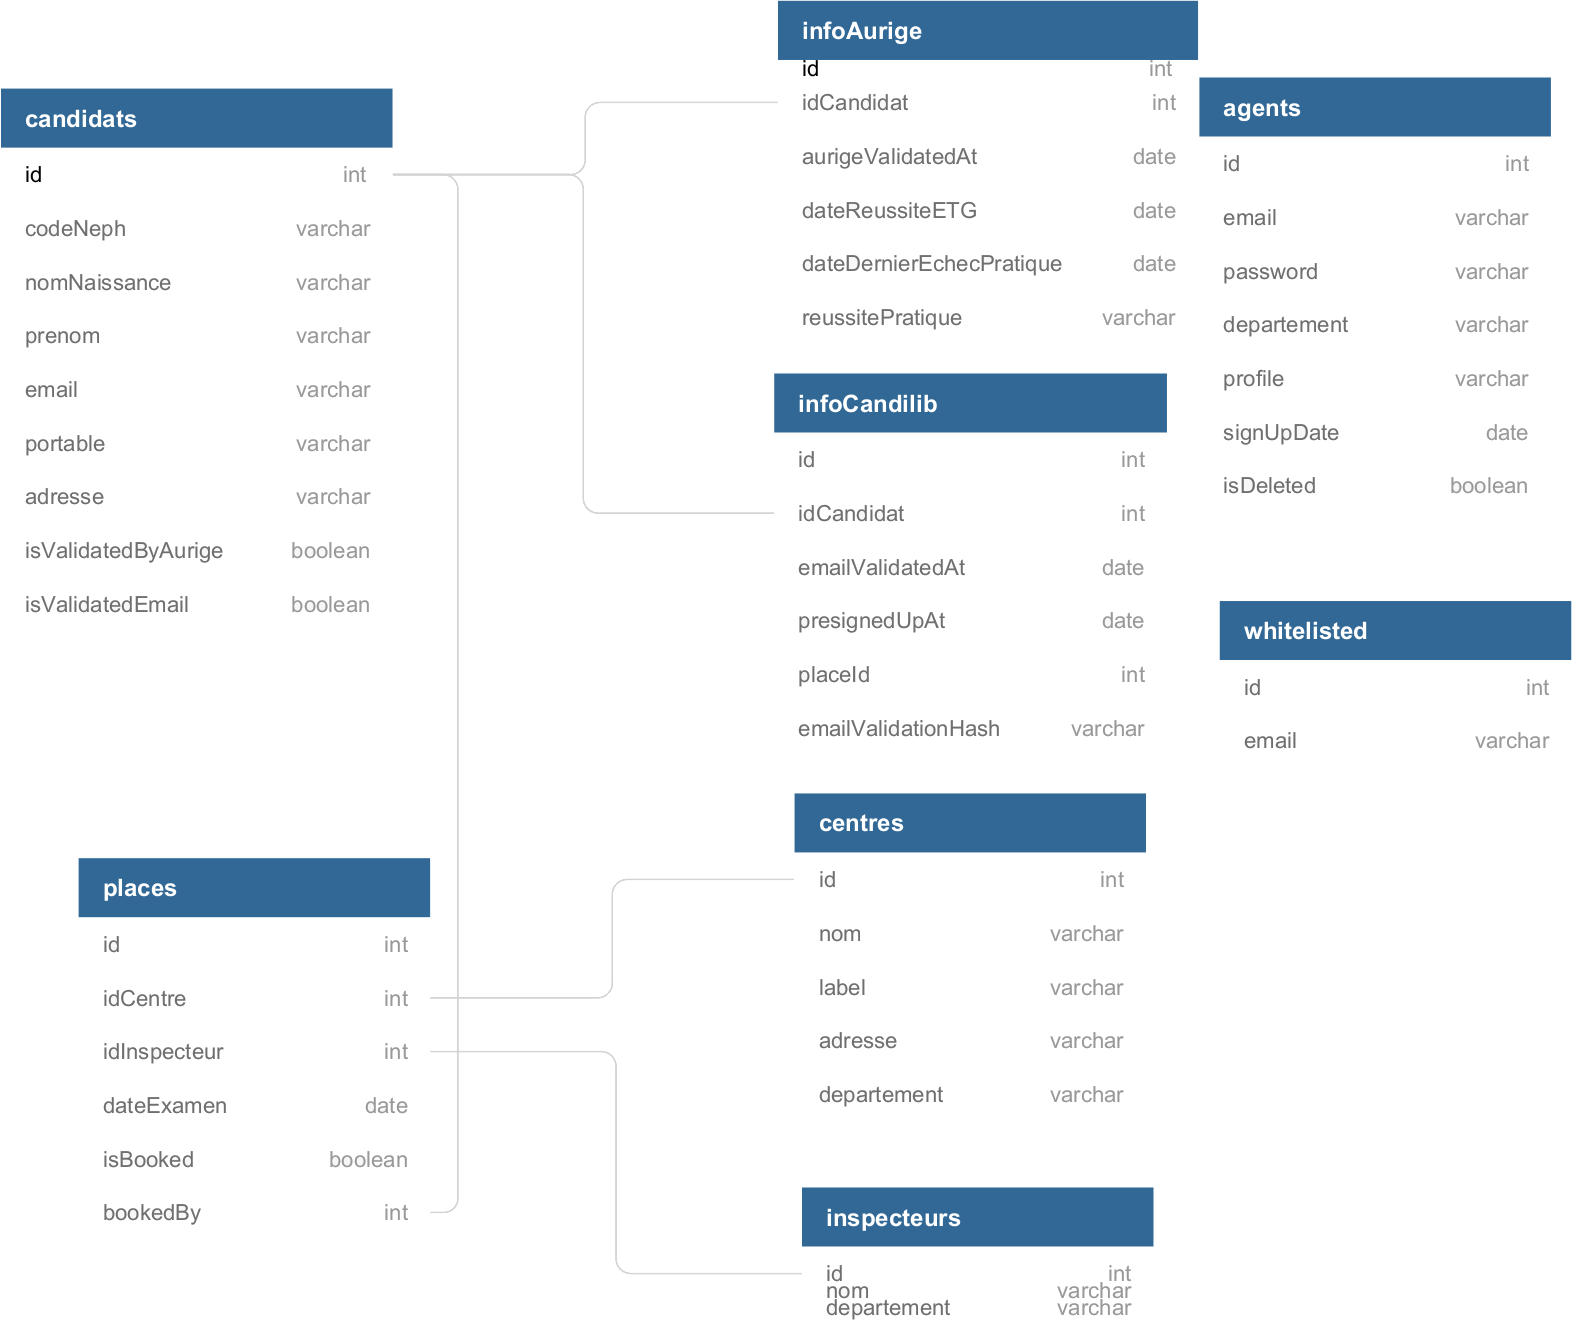
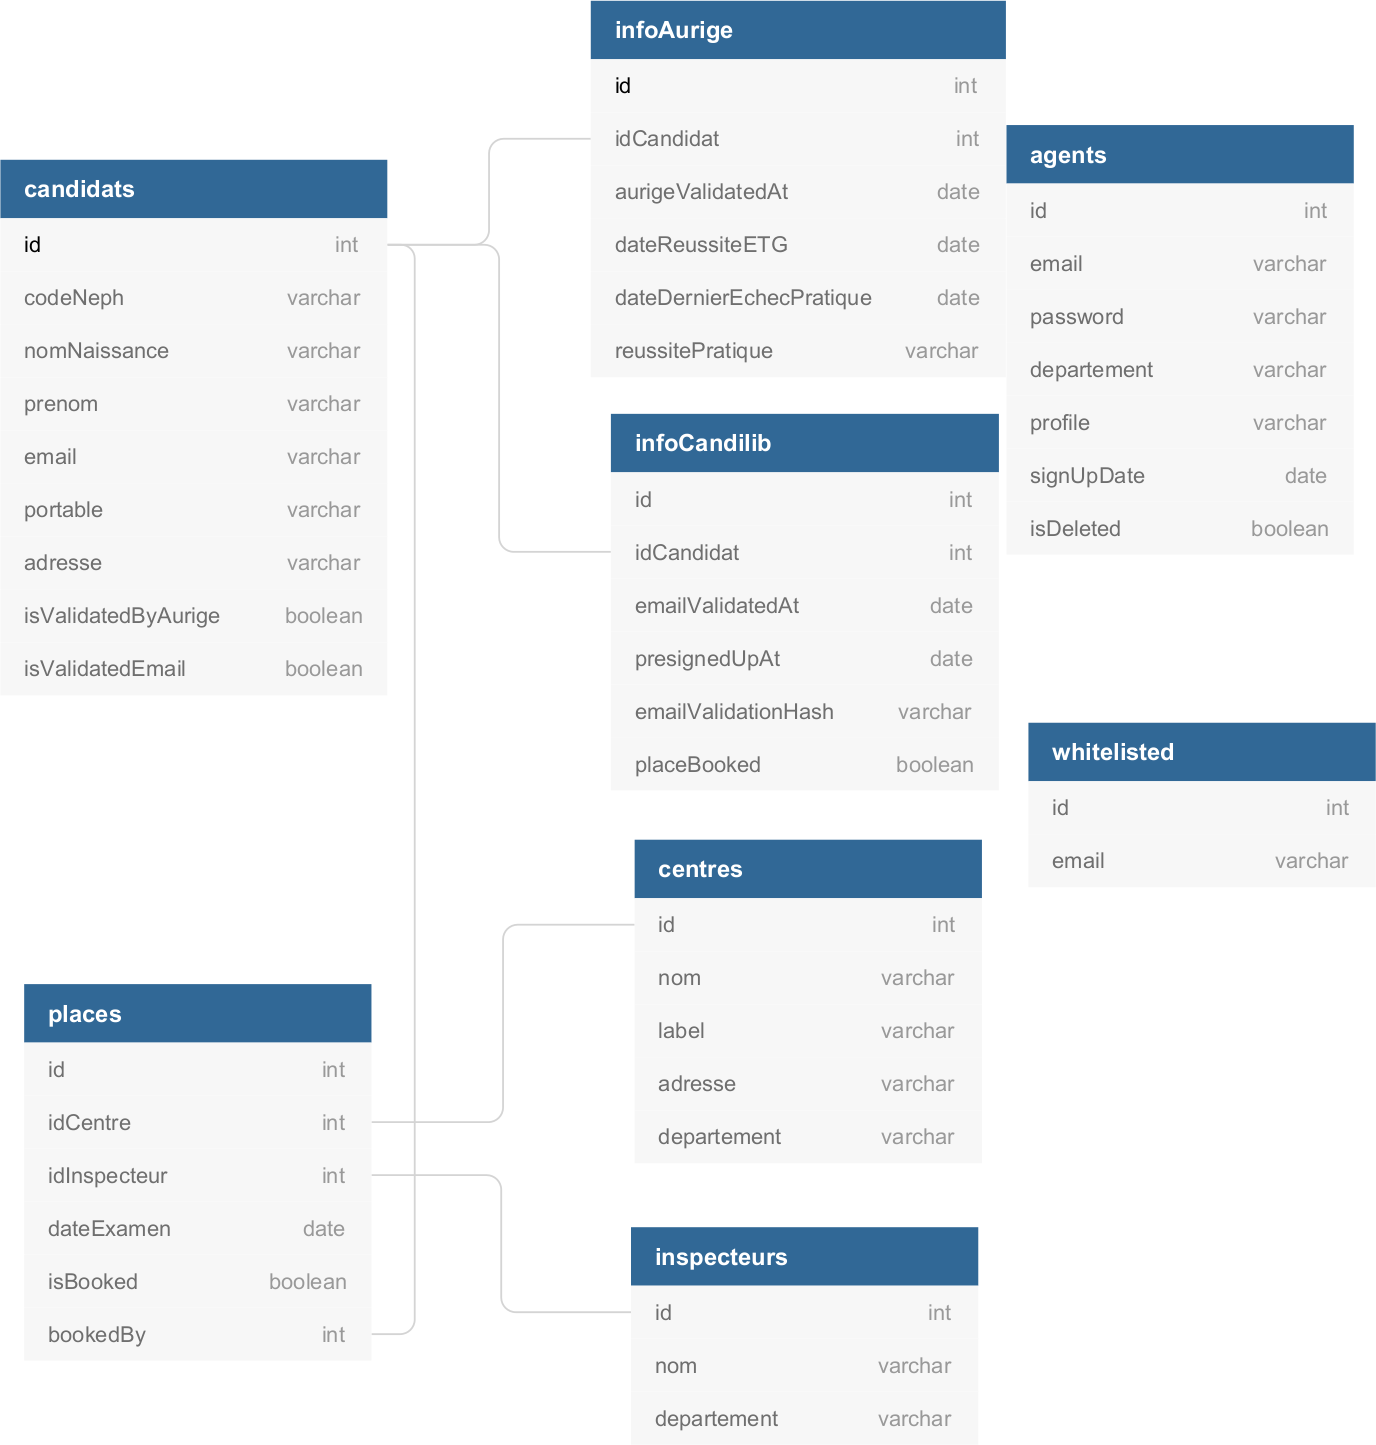
correction schémat et principes cloisonnement
explication sur le principe de cloisonnement

diff --git a/docs/Architecture.md b/docs/Architecture.md
@@ -35,3 +35,12 @@ De même les données relatives aux `places` d'examen sont liées formellement a
 ![Modèle de données v2](./candilib_V2_data_model.png)
 
 La structure `utilisateurs` est renommée en `agents` et l'information de `status` est renommée en `profile`.
+
+### Principes de cloisonnement
+
+Dans la configuration proposée, la notion de `departement` est positionnée pour les `agents`, les `centres` et les `inspecteurs`. Cet élément permet de contrôler que seuls les agents d'un département peuvent gérer les places d'examen et les inspecteurs de leur département.
+
+En revanche, il n'y a pas de filtrage sur les candidats qui peuvent être consultés par n'importe quel agent indépendamment d'une éventuelle réservation de place d'examen. Le lien `candidat/place` étant assuré au niveau des places d'examen, la consultation de la place réservée par un candidat ne peut se faire que par un agent en ayant la gestion. L'information `placeBooked` indique si le candidat a réservé une place d'examen. Si il existe une réservation il faut consulter les `places` en utilisant `bookedBy` avec l'`id` du candidat pour obtenir les détails.
+
+Cette configuration permet aux agents de gérer les candidats qui pourraient changer de département pour le passage de leur épreuve pratique. Elle garantie également une confidentialité au niveau département des détails (lieu, date et inspecteur) aux seuls agents ayant en gestion ce département.
+
